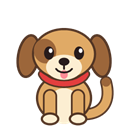
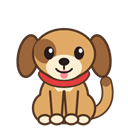
docs(readme): regenerate pet pictures from the current atlases
Add tools/GenerateReadmePetImages.ps1, which cuts the first Idle frame of
every pet under pets/ into docs/pets/<name>.png.

Changed region(s): [[0.25, 0.625, 0.7812, 1.0]]

diff --git a/CLAUDE.md b/CLAUDE.md
@@ -31,6 +31,7 @@ powershell -NoProfile -File tools/Build-Portable.ps1    # single-file publish zi
 powershell -NoProfile -File tools/GenerateRobotPet.ps1 # regenerate the robot pet (it has its own state list; vector art drawn with tools/PetVectorDrawing.ps1)
 powershell -NoProfile -File tools/GenerateCatPet.ps1   # regenerate cat / dog / rabbit / penguin / ghost (GenerateDogPet / GenerateRabbitPet / GeneratePenguinPet / GenerateGhostPet work the same way): every pet is smooth vector art; these five share the animation template tools/PetVectorAnimations.ps1 and the prop frames in tools/PetVectorScenarios.ps1, each script only draws poses
 powershell -NoProfile -File tools/GenerateFoxPet.ps1   # regenerate the fox pet: the first vector pet, with its own frame list (tools/PetVectorDrawing.ps1); every pet uses 256px atlas cells for a 64px frameSize
+powershell -NoProfile -File tools/GenerateReadmePetImages.ps1   # regenerate docs/pets/<name>.png (README pet pictures: first Idle frame of every pet under pets/); rerun it after redrawing any pet
 powershell -NoProfile -File tools/GenerateAppIcon.ps1   # regenerate the app/tray icon src/DeskBuddy.App/Assets/DeskBuddy.ico
 ```
 
